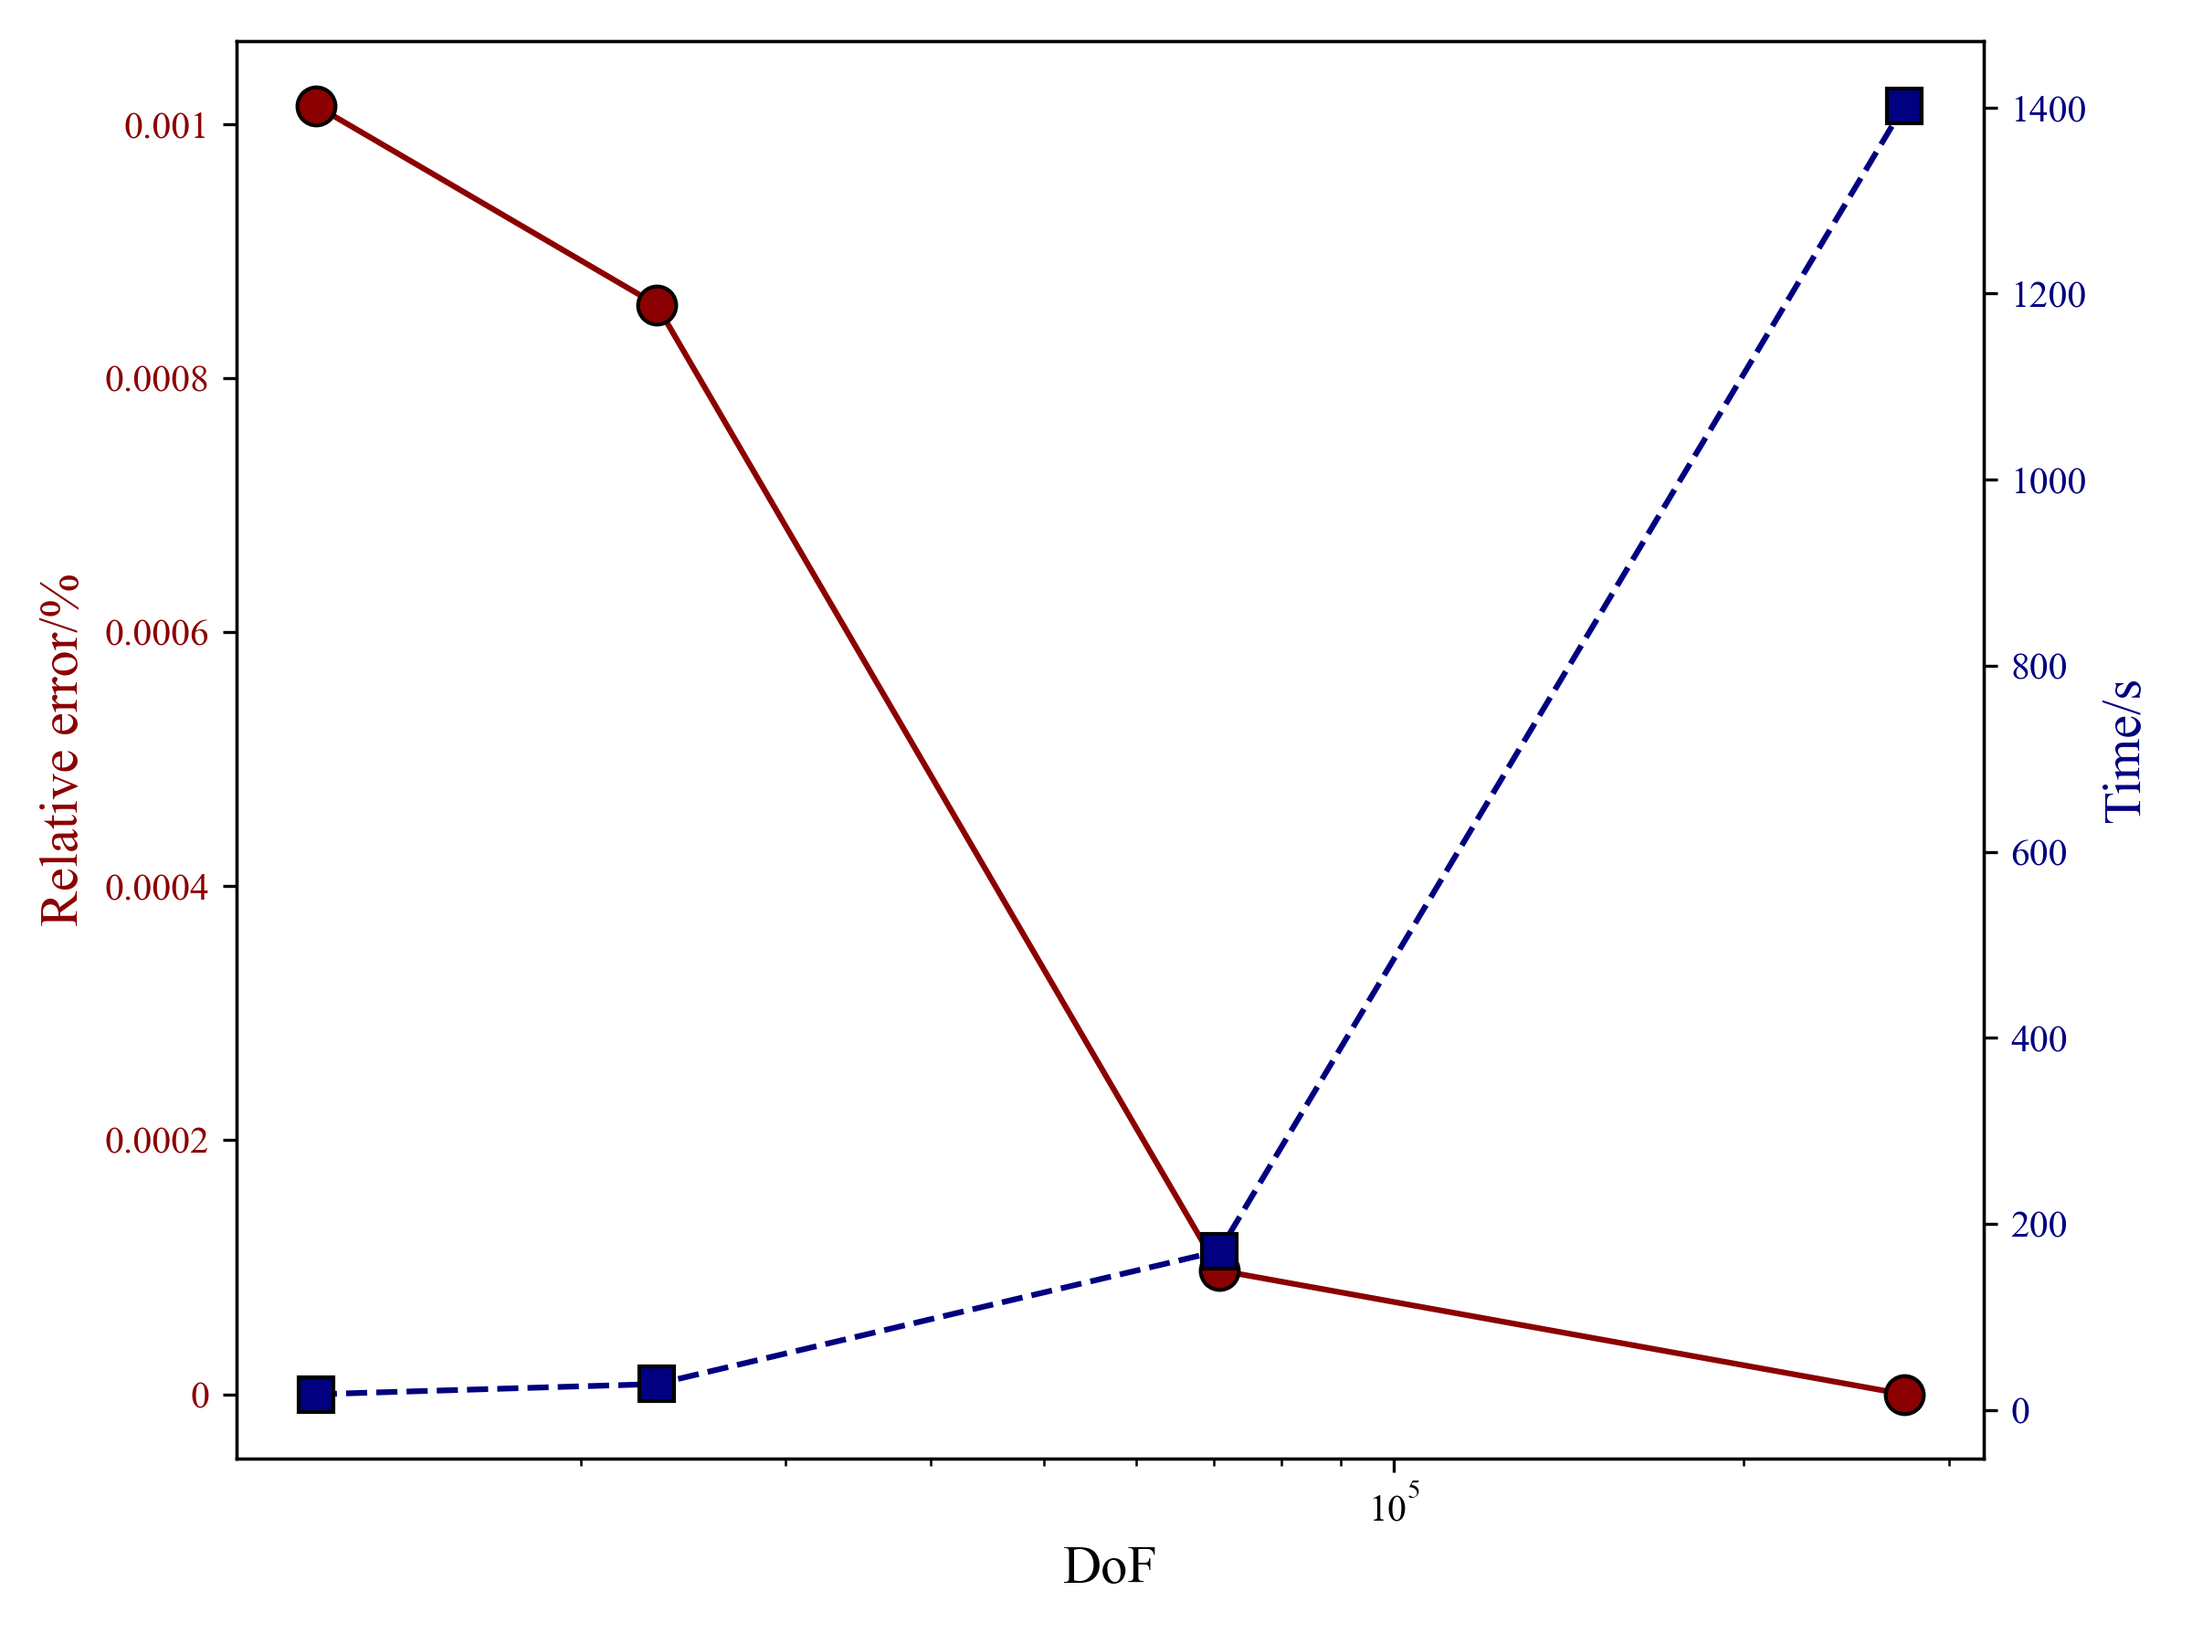
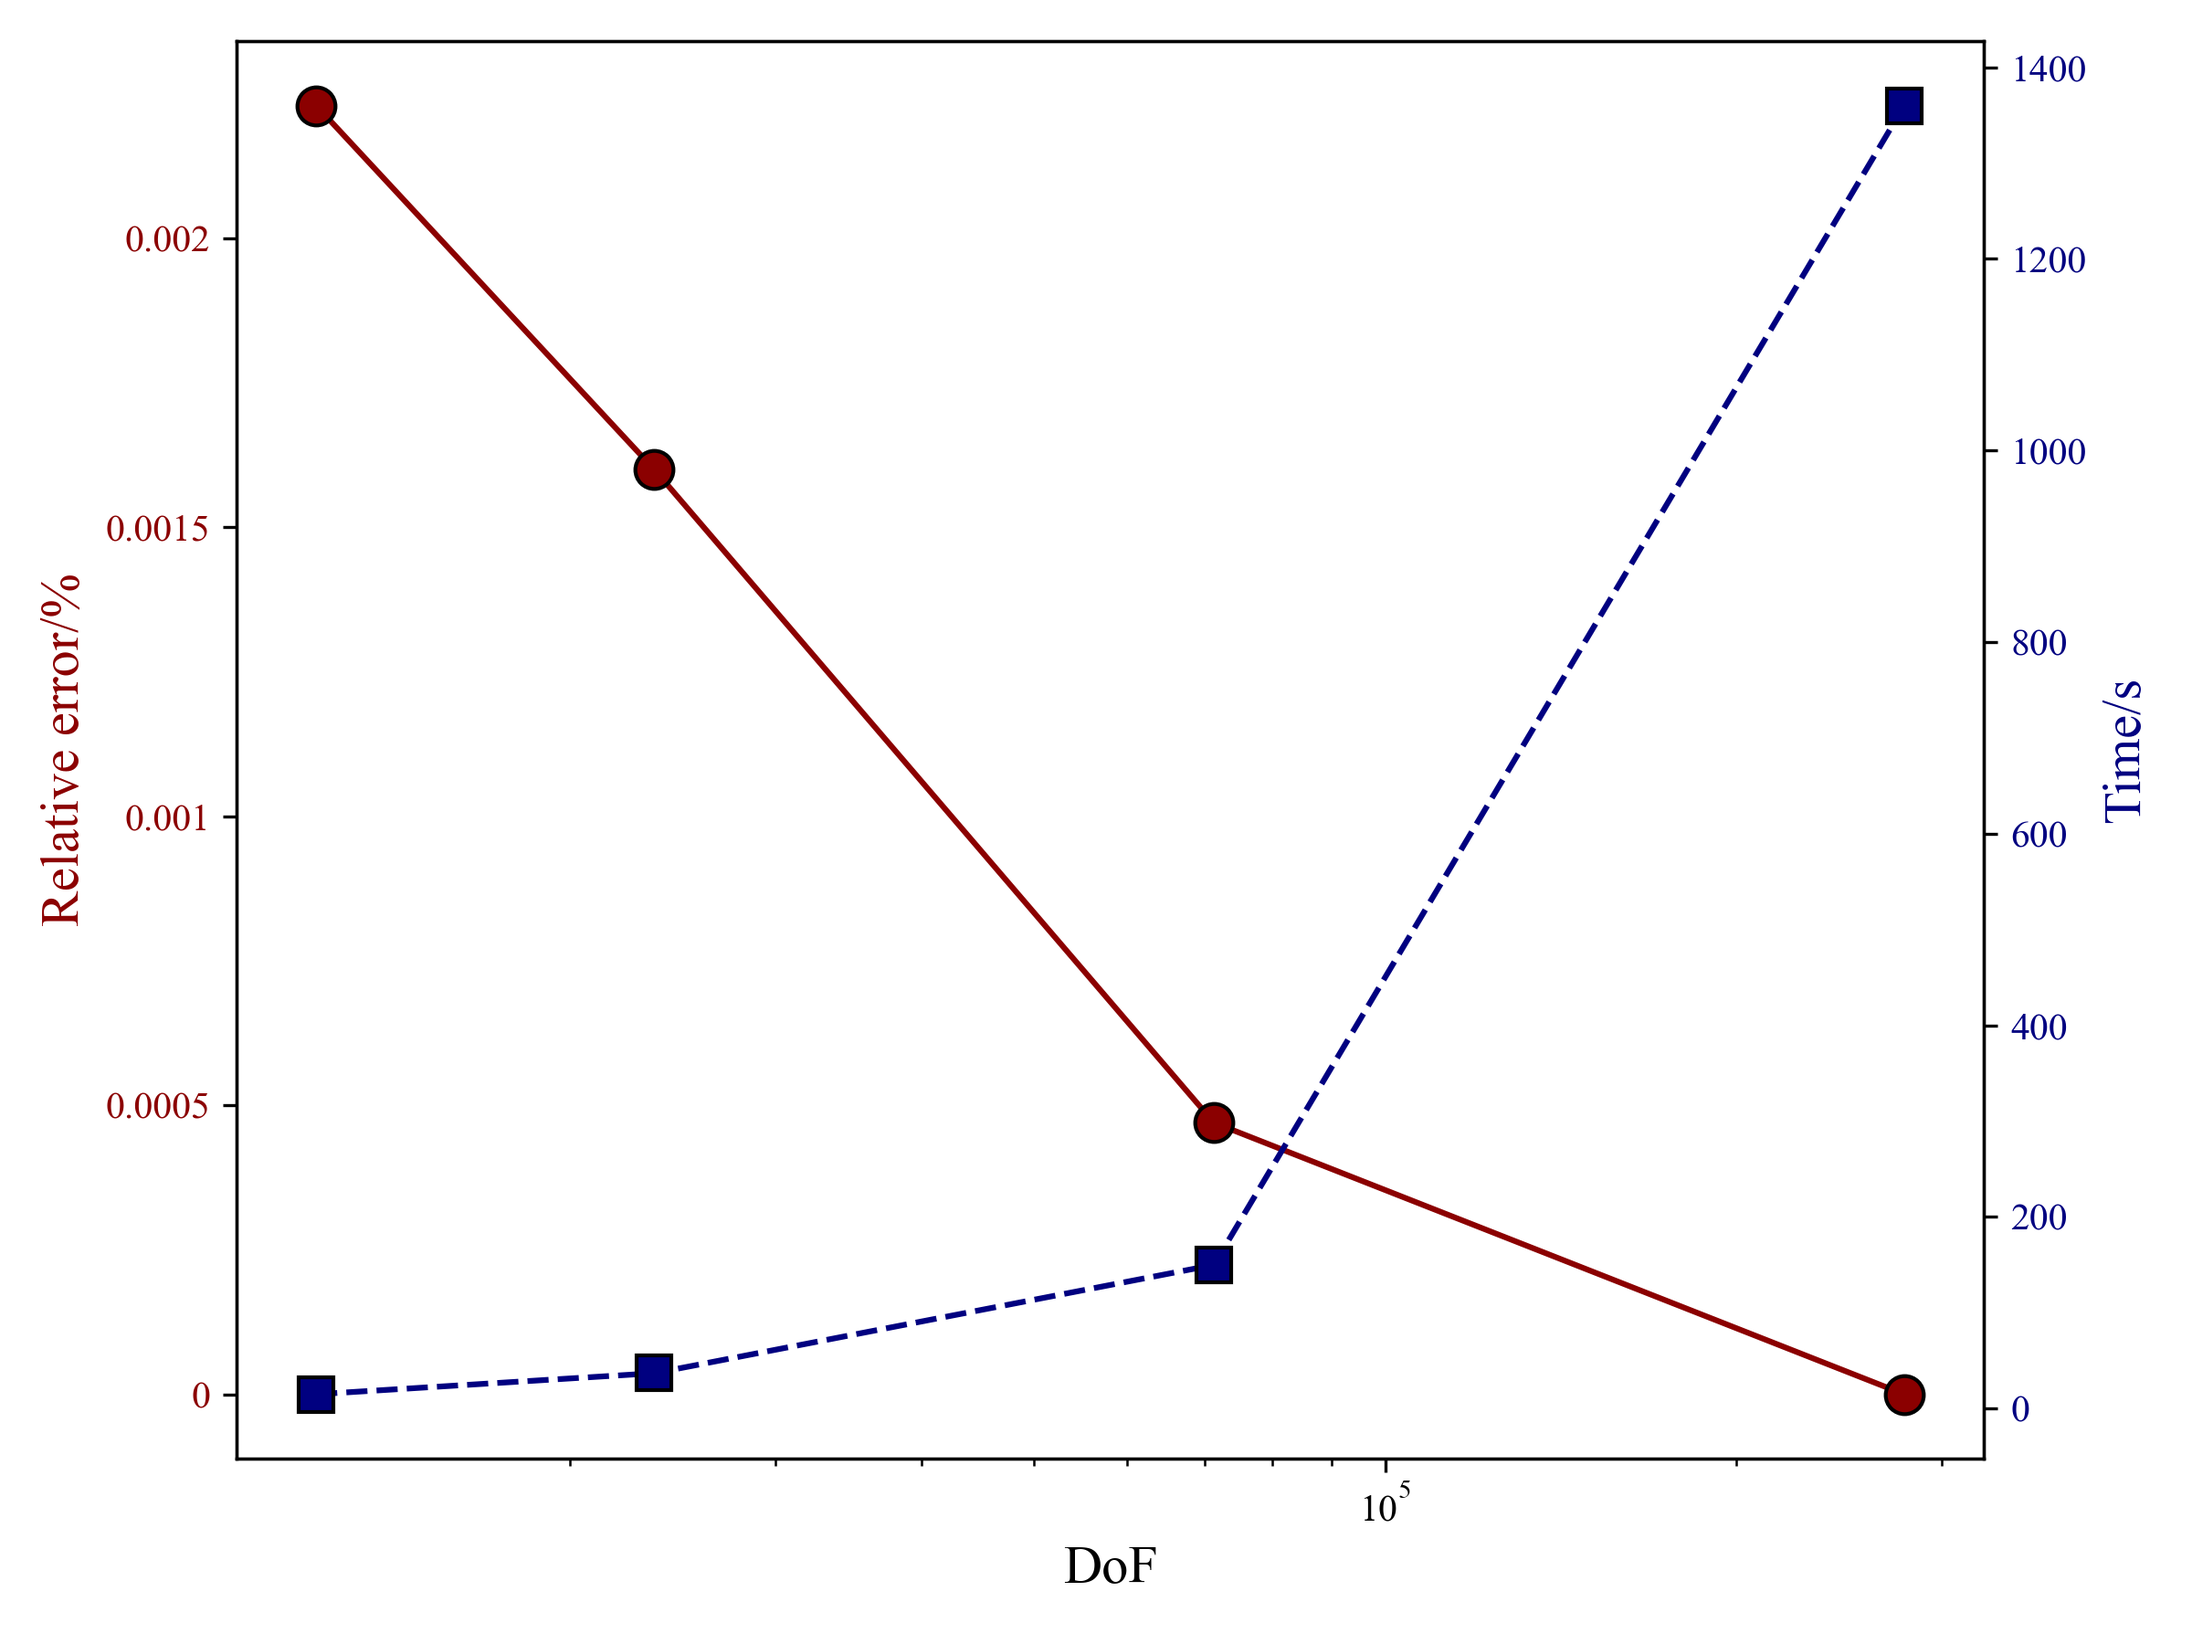
added cylindrical pillars

diff --git a/plotting.py b/plotting.py
@@ -30,13 +30,17 @@ dof_square_additive = [11837,23237,70780,274663]
 time_square_additive = [1.70E+01,2.80E+01,1.71E+02,1402]
 error_square_additive = [0.001014427,0.00085764,9.75146E-05,0.00E+00]
 
+dof_cylindrical_pillars = [12116,23621, 71276, 278469]
+time_cylindrical_pillars = [1.50E+01,3.70E+01,1.50E+02,1360]
+error_cylindrical_pillars = [2.23E-03,1.60E-03,4.70E-04,0.00E+00]
+
 fig, ax1 = plt.subplots(figsize=(8, 6))
 
 # Left axis: relative error
 color1 = 'darkred'
 ax1.set_xlabel('DoF', fontsize=14)
 ax1.set_ylabel('Relative error/%', color=color1, fontsize=14)
-ax1.plot(dof_square_additive, error_square_additive, marker='o', markersize=10, color=color1,
+ax1.plot(dof_cylindrical_pillars, error_cylindrical_pillars, marker='o', markersize=10, color=color1,
           linestyle='-', linewidth=1.5, markerfacecolor=color1,
           markeredgecolor='black', label='Relative error')
 ax1.tick_params(axis='y', labelcolor=color1)
@@ -49,7 +53,7 @@ ax1.yaxis.set_major_formatter(ticker.FuncFormatter(lambda x, _: f'{x:.3g}'))
 ax2 = ax1.twinx()
 color2 = 'navy'
 ax2.set_ylabel('Time/s', color=color2, fontsize=14)
-ax2.plot(dof_square_additive, time_square_additive , marker='s', markersize=9, color=color2,
+ax2.plot(dof_cylindrical_pillars, time_cylindrical_pillars , marker='s', markersize=9, color=color2,
           linestyle='--', linewidth=1.5, markerfacecolor=color2,
           markeredgecolor='black', label='Time')
 ax2.tick_params(axis='y', labelcolor=color2)
